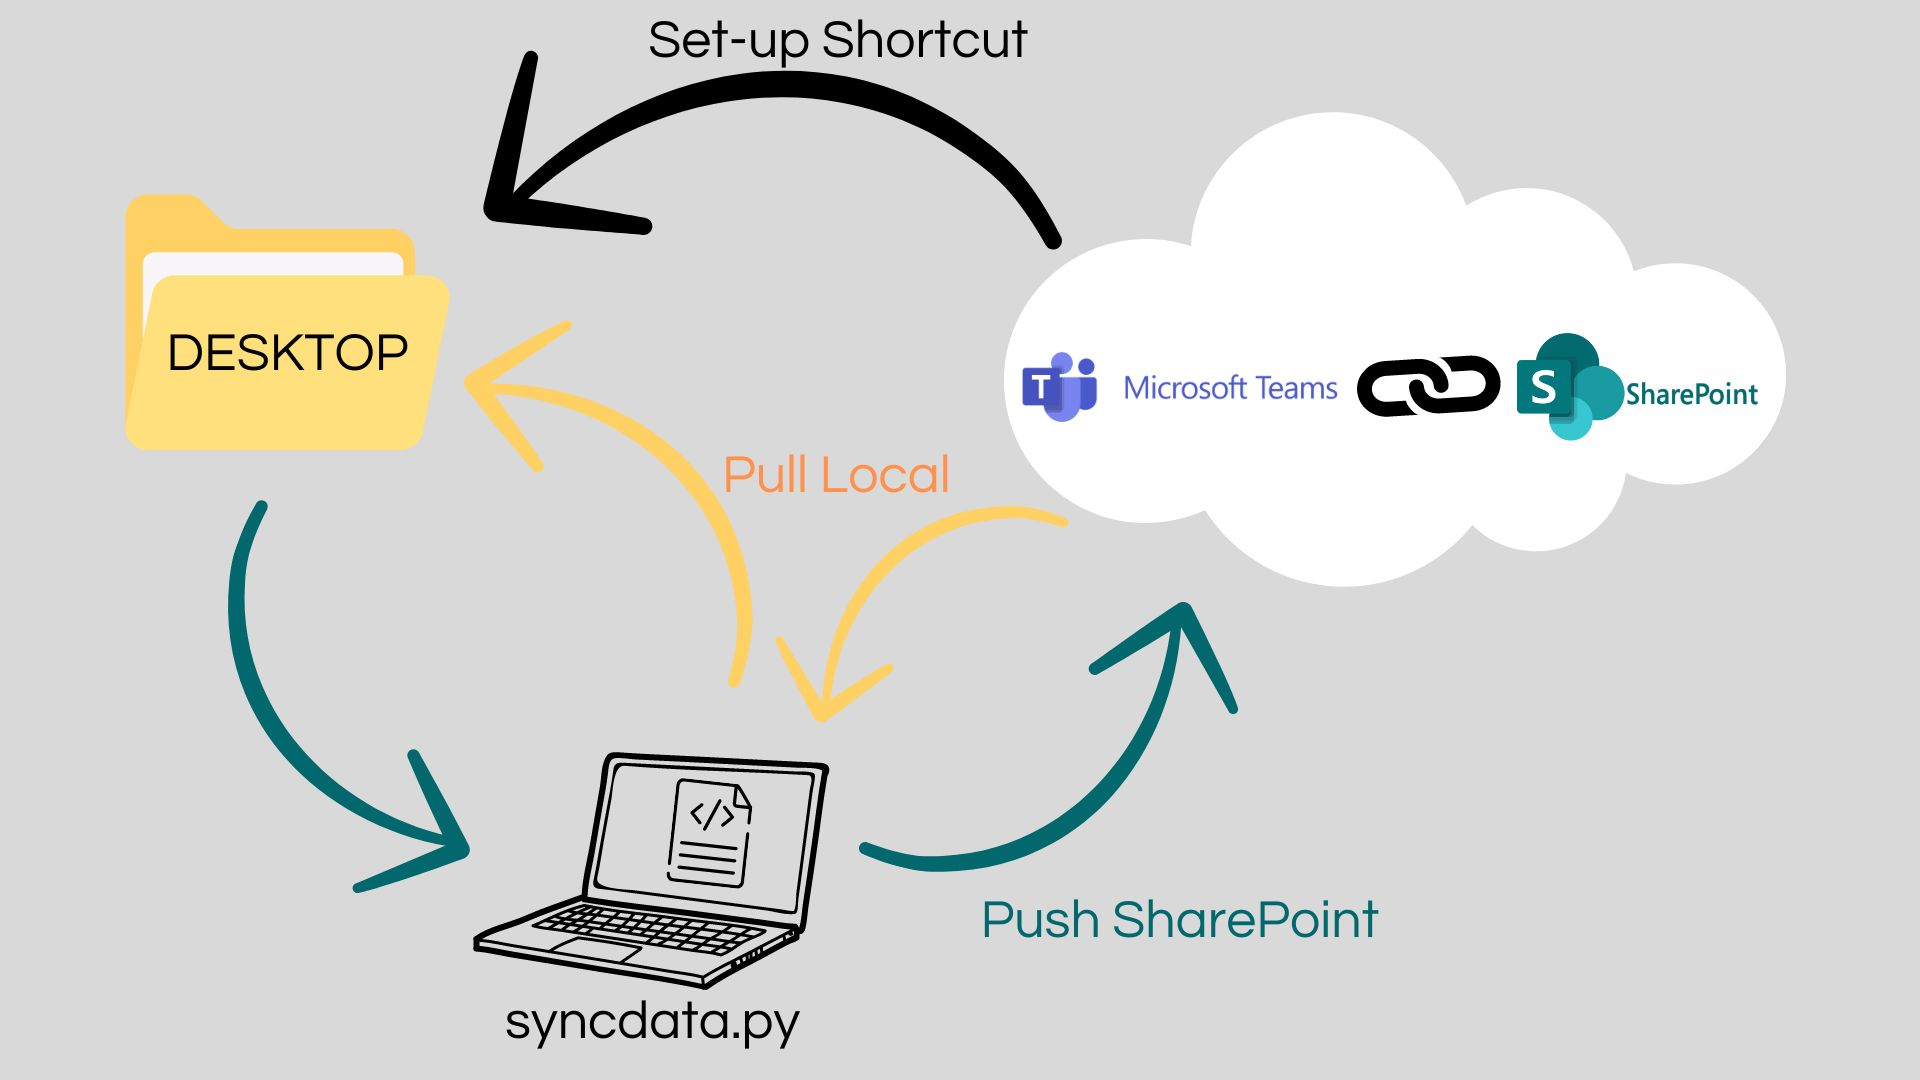
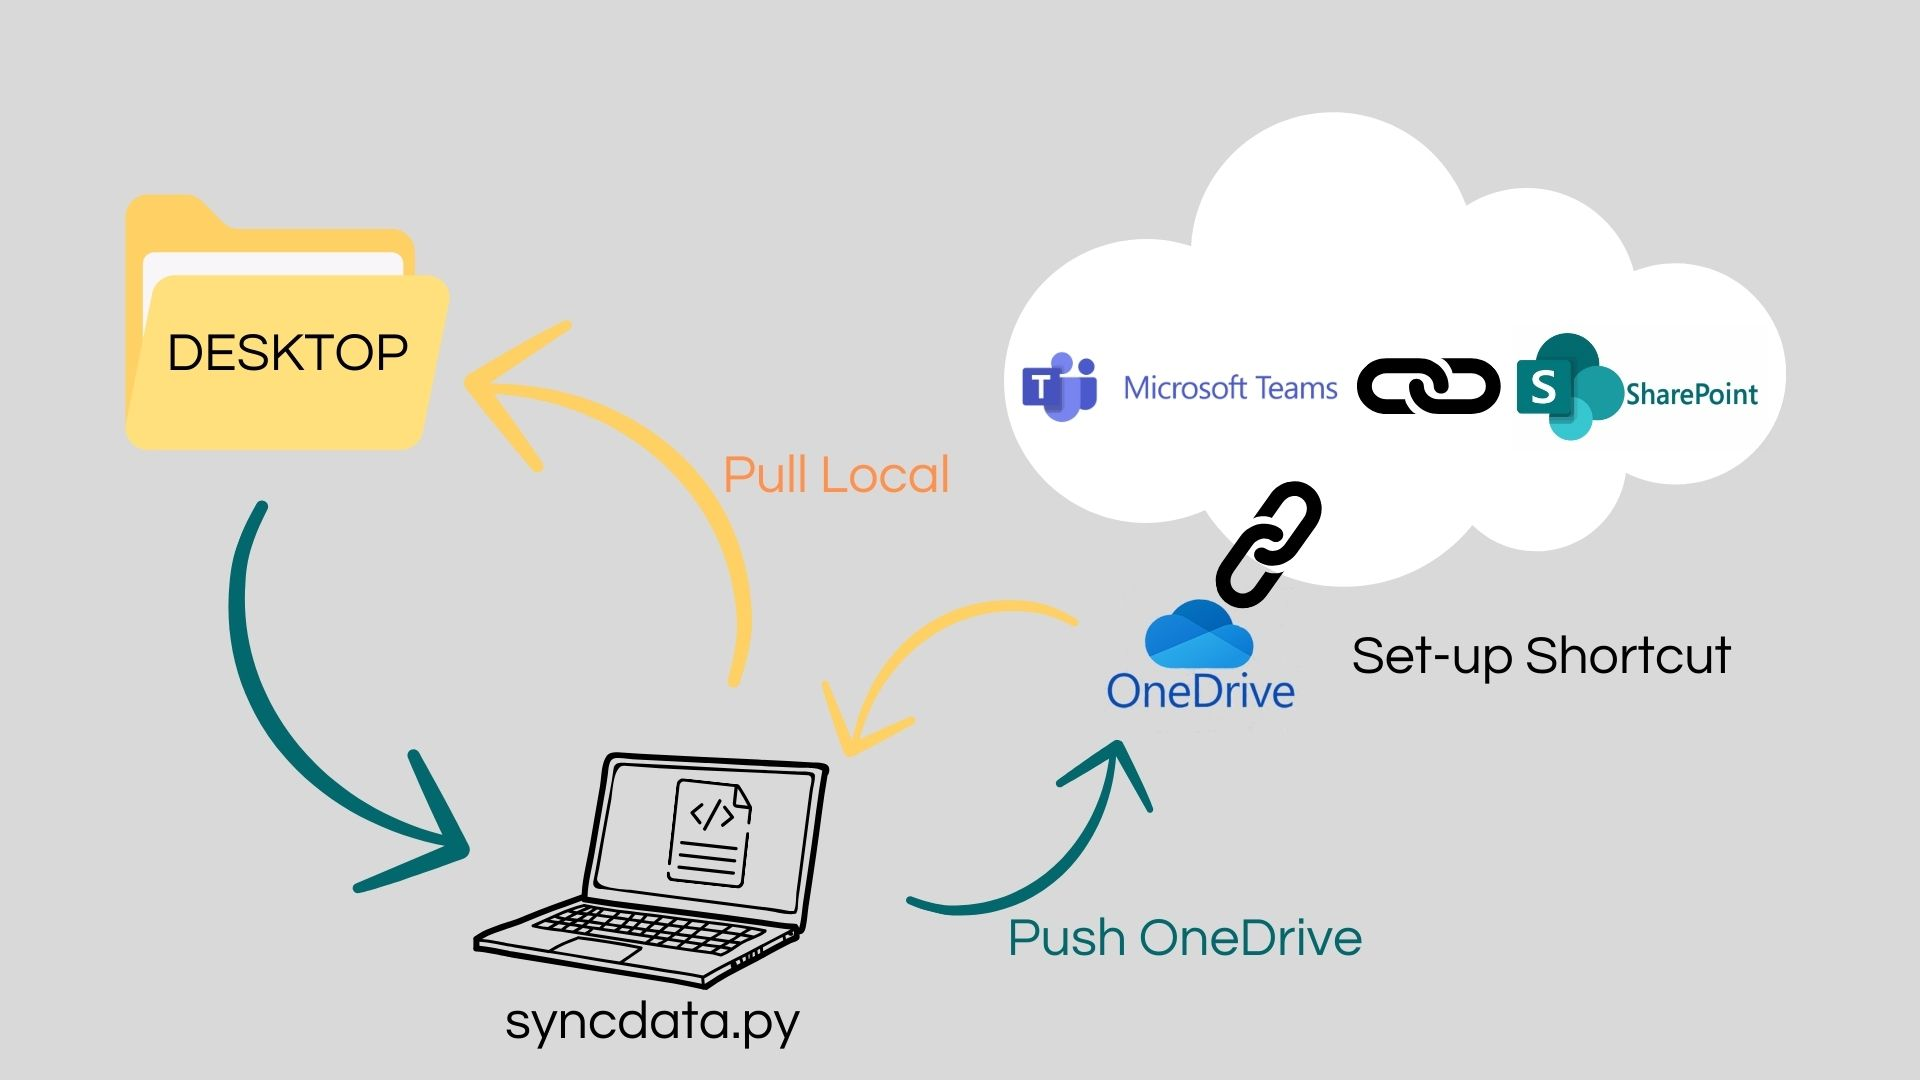
Added the functionality of the syncscript that worked locally on my computer, each user needs to modify to make sure it works for them.

diff --git a/syncdata.py b/syncdata.py
@@ -1,0 +1,29 @@
+from dirsync import sync
+import os
+
+def sync_onedrive_to_desktop(username, onedrive_name, direction):
+    user_profile = os.path.join('C:\\Users', username)
+    source_path = os.path.join(user_profile, onedrive_name, "DataFiles")
+    target_path = os.path.join(user_profile, 'Desktop', "DataFiles")
+ 
+    sync_mode = 'sync'
+    # Perform the sync
+    sync(source_path, target_path, sync_mode, purge=False, verbose=True)
+    print(f"Synced {source_path} to {target_path}")
+
+# Main script execution
+if __name__ == "__main__":
+    # Prompt the names of your OneDrive and User for your Desktop path
+    username = input("Please enter your Windows username: ")
+    onedrive_name = input("Please enter your OneDrive name (e.g., OneDrive - UWA): ")
+
+    # These are not optional namings, we will all use the reference to DataFiles - FilesIn, FilesOut and AppStaging
+    onedrive_folder_name = "DataFiles"
+    desktop_folder_name = "DataFiles" 
+
+    # Prompt for sync direction
+    direction = input("Enter sync direction ('pull' to OneDrive to Desktop, 'push' to Desktop to OneDrive): ").strip().lower()
+
+    # Run the sync
+    sync_onedrive_to_desktop(username, onedrive_name, direction)
+

diff --git a/README.md b/README.md
@@ -39,4 +39,19 @@ As shown below, a shortcut to Sharepoint from Teams need to be saved on your Des
 
 <img src="diagram-sources/syncing.jpg" alt="Diagram showing sources and syncing" width="900"/>
 
-The syncing process is done as shown below:
+The syncing process is done as shown below, note my directory is on my Desktop too by coincidence that is not important:
+
+```bash
+PS C:\Users\61420\Desktop\CITS3200---National-Housing-Simulation> python syncdata.py
+
+Please enter your Windows username: 61420
+
+Please enter your OneDrive name (e.g., OneDrive - UWA): Onedrive - UWA
+
+Enter sync direction ('pull' to OneDrive to Desktop, 'push' to Desktop to OneDrive): pull
+
+```
+
+Ensure the syncscript work for your workflow, it will NOT be tracked for updates and contained in the “.gitignore”
+
+**_ PLEASE ADD HOW THIS WOULD BE DONE IN POETRY OR DEVBOX, I AM NOT FAMILIAR WITH HOW THE WORKFLOW THEY COMBINE WITH _**
